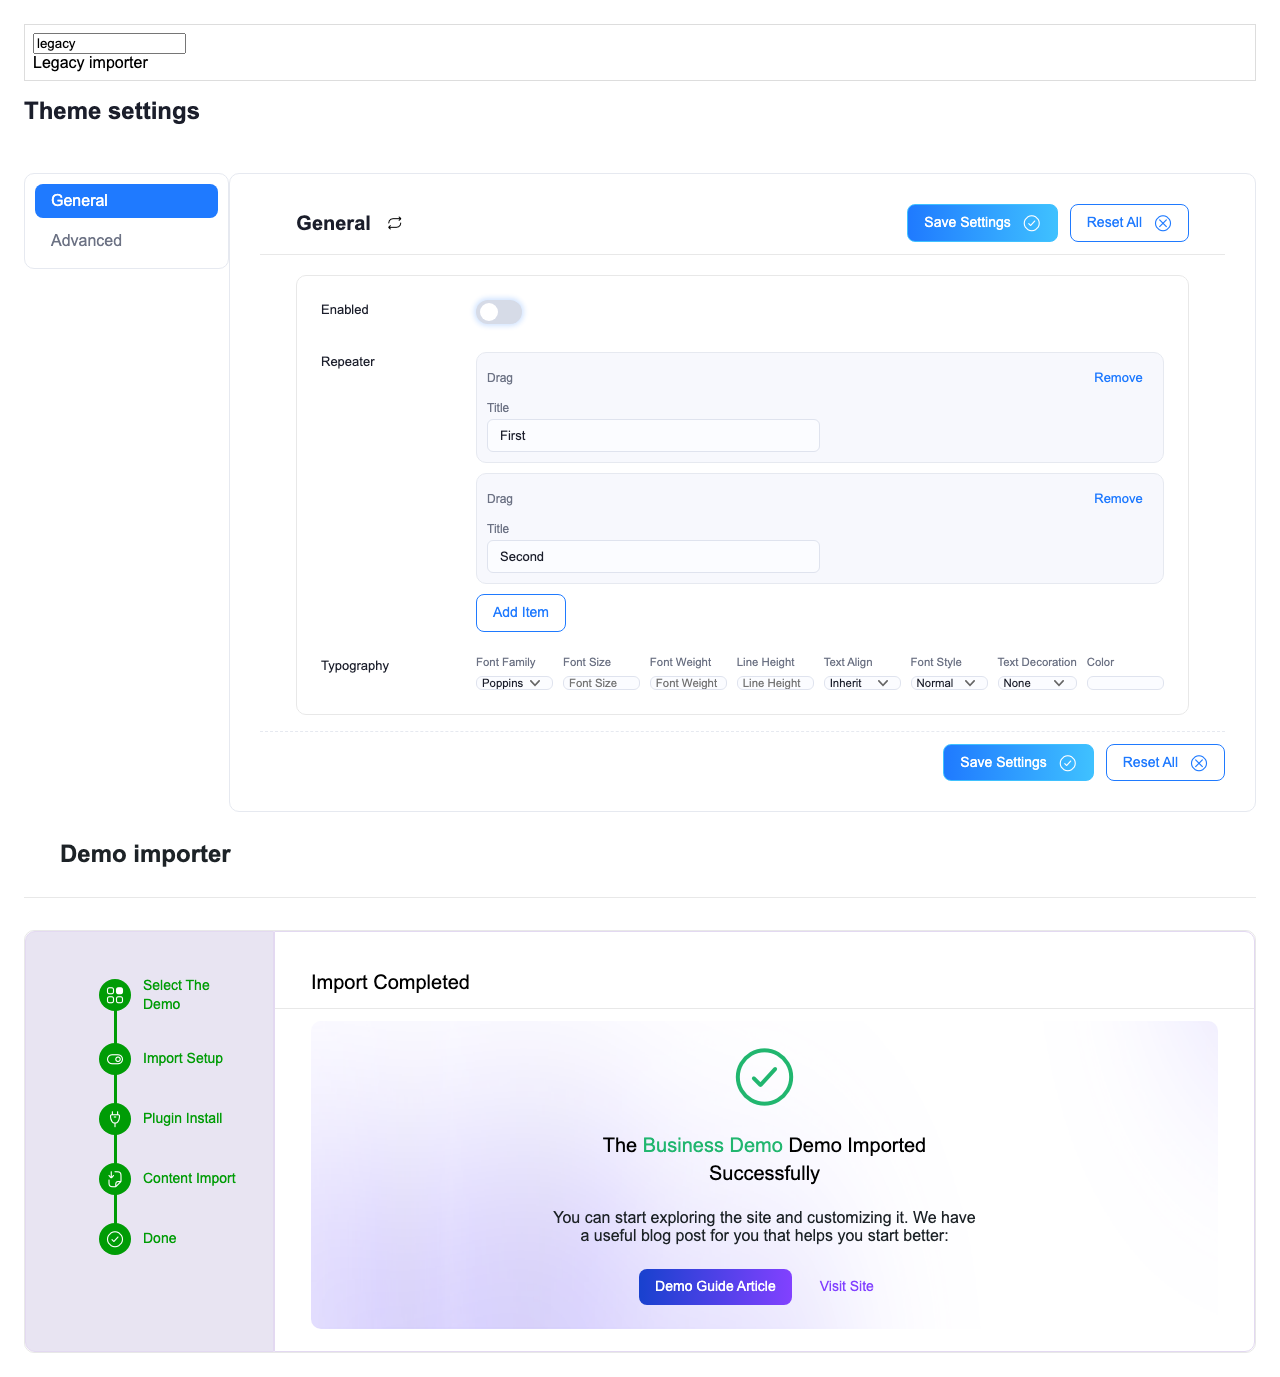
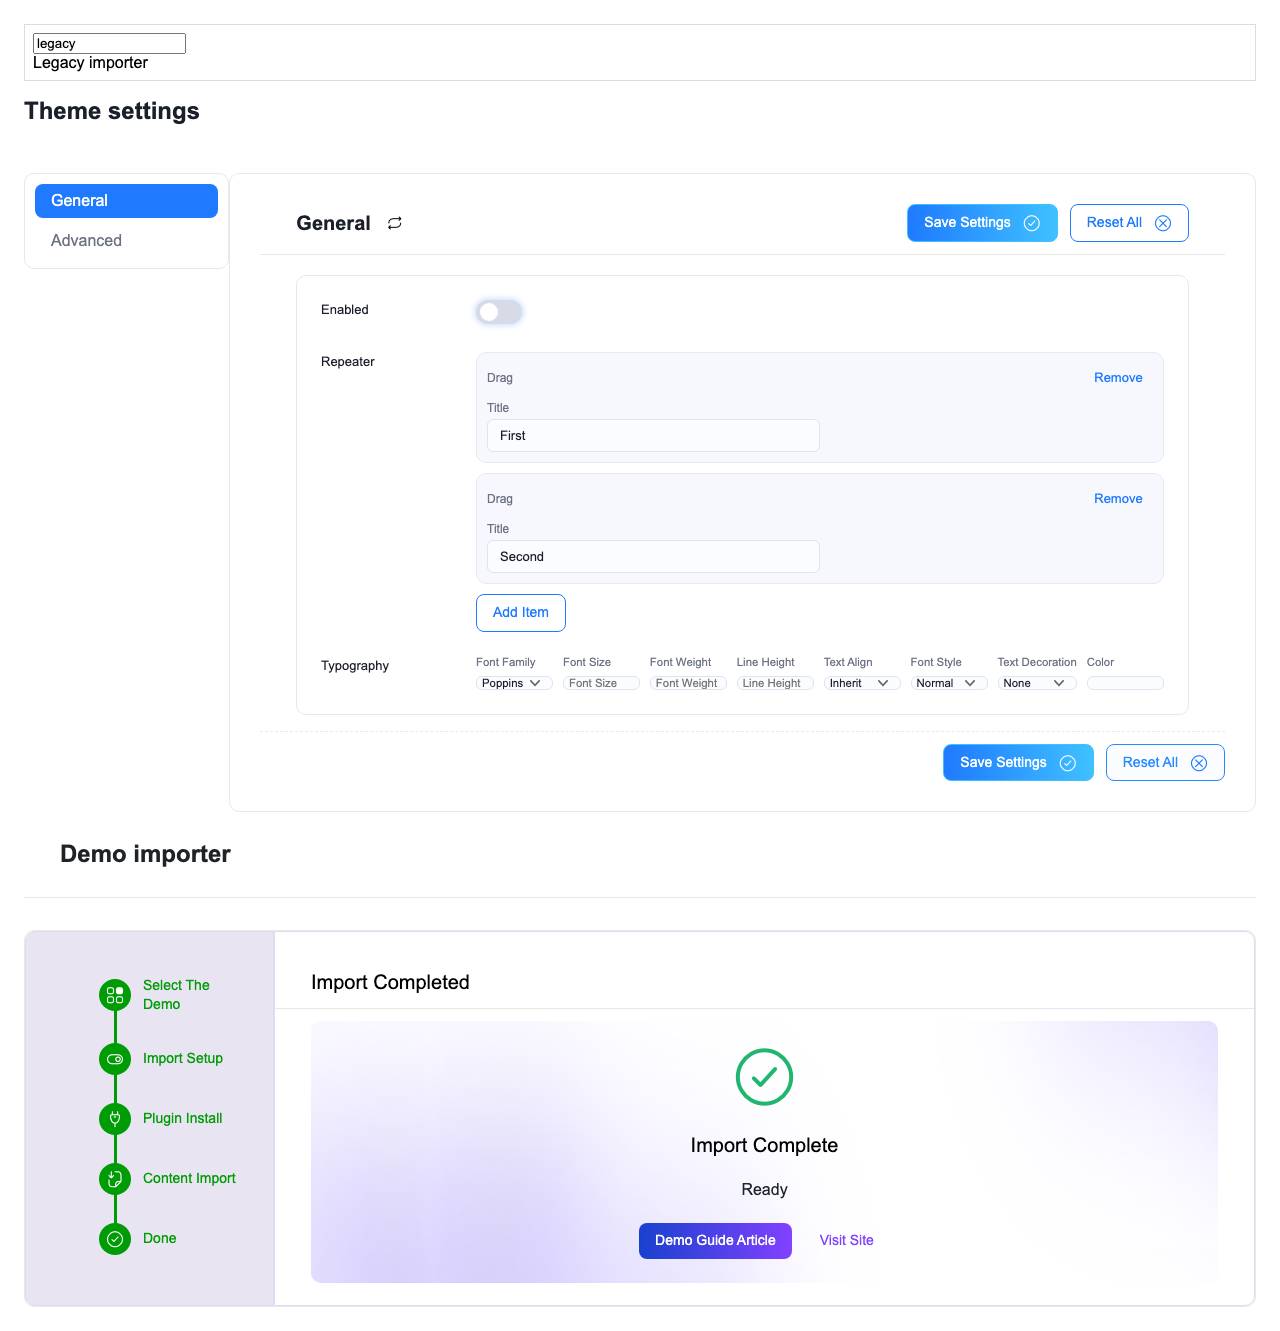
Fix conditional comparisons, keyboard sorting and importer completion

diff --git a/assets/js/settings-panel.js b/assets/js/settings-panel.js
@@ -453,11 +453,11 @@ export function create(options = {}) {
             const a = normalizeScalar(actual);
             const e = normalizeScalar(expected);
 
-            if (typeof a === 'boolean' || typeof e === 'boolean') {
-                return Boolean(a) === Boolean(e);
+            if (typeof a === 'boolean' && typeof e === 'boolean') {
+                return a === e;
             }
 
-            return String(a) === String(e);
+            return String(actual == null ? '' : actual) === String(expected == null ? '' : expected);
         }
 
         function compareValues(actual, operator, expected) {
@@ -1023,16 +1023,29 @@ export function create(options = {}) {
     const SortablesModule = {
         name: 'SortablesModule',
         init(context) {
-            if (!options.sortable) return;
             const lists = Utils.qsa('.wui-sp-sortable', context);
             if (context.matches && context.matches('.wui-sp-sortable')) lists.unshift(context);
             lists.forEach(list => {
                 if (list.dataset.wuiSortableReady) return;
                 list.dataset.wuiSortableReady = '1';
-                options.sortable(list, () => {
+                const changed = () => {
                     const target = list.querySelector('input') || list;
                     target.dispatchEvent(new Event('input', { bubbles: true }));
                     target.dispatchEvent(new Event('change', { bubbles: true }));
+                };
+                if (options.sortable) options.sortable(list, changed);
+                list.addEventListener('click', event => {
+                    const button = event.target.closest('.wui-sp-sortable-move');
+                    if (!button || button.closest('.wui-sp-sortable') !== list) return;
+                    event.preventDefault();
+                    const item = button.closest('li');
+                    const up = button.dataset.direction === 'up';
+                    const sibling = up ? item.previousElementSibling : item.nextElementSibling;
+                    if (!sibling) return;
+                    if (up) list.insertBefore(item, sibling);
+                    else list.insertBefore(sibling, item);
+                    button.focus();
+                    changed();
                 });
             });
         }

diff --git a/dist/js/settings-panel.js b/dist/js/settings-panel.js
@@ -363,10 +363,10 @@ var __wuiModule = (() => {
         }
         const a = normalizeScalar(actual);
         const e = normalizeScalar(expected);
-        if (typeof a === "boolean" || typeof e === "boolean") {
-          return Boolean(a) === Boolean(e);
+        if (typeof a === "boolean" && typeof e === "boolean") {
+          return a === e;
         }
-        return String(a) === String(e);
+        return String(actual == null ? "" : actual) === String(expected == null ? "" : expected);
       }
       function compareValues(actual, operator, expected) {
         let op = String(operator || "=").toLowerCase();
@@ -791,16 +791,29 @@ var __wuiModule = (() => {
     const SortablesModule = {
       name: "SortablesModule",
       init(context) {
-        if (!options.sortable) return;
         const lists = Utils.qsa(".wui-sp-sortable", context);
         if (context.matches && context.matches(".wui-sp-sortable")) lists.unshift(context);
         lists.forEach((list) => {
           if (list.dataset.wuiSortableReady) return;
           list.dataset.wuiSortableReady = "1";
-          options.sortable(list, () => {
+          const changed = () => {
             const target = list.querySelector("input") || list;
             target.dispatchEvent(new Event("input", { bubbles: true }));
             target.dispatchEvent(new Event("change", { bubbles: true }));
+          };
+          if (options.sortable) options.sortable(list, changed);
+          list.addEventListener("click", (event) => {
+            const button = event.target.closest(".wui-sp-sortable-move");
+            if (!button || button.closest(".wui-sp-sortable") !== list) return;
+            event.preventDefault();
+            const item = button.closest("li");
+            const up = button.dataset.direction === "up";
+            const sibling = up ? item.previousElementSibling : item.nextElementSibling;
+            if (!sibling) return;
+            if (up) list.insertBefore(item, sibling);
+            else list.insertBefore(sibling, item);
+            button.focus();
+            changed();
           });
         });
       }

diff --git a/assets/js/demo-import.js b/assets/js/demo-import.js
@@ -40,10 +40,15 @@ export function init(root, options = {}) {
         contentStageLabel: $('.js-wui-di-content-stage-label'),
         pluginContext: $('.js-wui-di-plugin-context'),
         contentContext: $('.js-wui-di-content-context'),
-        doneDemoName: $('.js-wui-di-done-demo-name'),
+        doneTitle: $('.js-wui-di-done-title'),
+        doneMessage: $('.js-wui-di-done-message'),
         visitSite: $('.js-wui-di-visit-site'),
         guideLink: $('.js-wui-di-guide-link')
     };
+
+    // These fallback fragments come from the host's trusted rendered template.
+    const doneTitleTemplate = dom.doneTitle.html();
+    const doneMessageTemplate = dom.doneMessage.html();
 
     function t(key) {
         return Object.prototype.hasOwnProperty.call(i18n, key) ? i18n[key] : '';
@@ -312,7 +317,8 @@ export function init(root, options = {}) {
         setStageLabel(dom.contentStageLabel, t('stage_waiting'), 'info');
         dom.pluginRestartButton.hide();
         dom.contentRestartButton.hide();
-        dom.doneDemoName.text('');
+        dom.doneTitle.html(doneTitleTemplate || '');
+        dom.doneMessage.html(doneMessageTemplate || '');
     }
 
     function showSetup(selected, demoName, demoImage, plugins, categories) {
@@ -522,7 +528,9 @@ export function init(root, options = {}) {
         setTimelineState('done', 'done');
         setStageLabel(dom.contentStageLabel, t('stage_completed'), 'success');
         appendLog(dom.contentLog, t('log_content_success'), 'success');
-        dom.doneDemoName.text(currentImport && currentImport.demoName ? currentImport.demoName + ' ' : '');
+        dom.doneTitle.find('.js-wui-di-done-demo-name').text(currentImport && currentImport.demoName ? currentImport.demoName + ' ' : '');
+        if (response && typeof response.title === 'string') dom.doneTitle.text(response.title);
+        if (response && typeof response.message === 'string') dom.doneMessage.text(response.message);
         resetFooterButtons();
         setActiveStep('done');
     }

diff --git a/dist/js/demo-import.js b/dist/js/demo-import.js
@@ -63,10 +63,13 @@ var __wuiModule = (() => {
       contentStageLabel: $(".js-wui-di-content-stage-label"),
       pluginContext: $(".js-wui-di-plugin-context"),
       contentContext: $(".js-wui-di-content-context"),
-      doneDemoName: $(".js-wui-di-done-demo-name"),
+      doneTitle: $(".js-wui-di-done-title"),
+      doneMessage: $(".js-wui-di-done-message"),
       visitSite: $(".js-wui-di-visit-site"),
       guideLink: $(".js-wui-di-guide-link")
     };
+    const doneTitleTemplate = dom.doneTitle.html();
+    const doneMessageTemplate = dom.doneMessage.html();
     function t(key) {
       return Object.prototype.hasOwnProperty.call(i18n, key) ? i18n[key] : "";
     }
@@ -269,7 +272,8 @@ var __wuiModule = (() => {
       setStageLabel(dom.contentStageLabel, t("stage_waiting"), "info");
       dom.pluginRestartButton.hide();
       dom.contentRestartButton.hide();
-      dom.doneDemoName.text("");
+      dom.doneTitle.html(doneTitleTemplate || "");
+      dom.doneMessage.html(doneMessageTemplate || "");
     }
     function showSetup(selected, demoName, demoImage, plugins, categories) {
       currentImport = {
@@ -451,7 +455,9 @@ var __wuiModule = (() => {
       setTimelineState("done", "done");
       setStageLabel(dom.contentStageLabel, t("stage_completed"), "success");
       appendLog(dom.contentLog, t("log_content_success"), "success");
-      dom.doneDemoName.text(currentImport && currentImport.demoName ? currentImport.demoName + " " : "");
+      dom.doneTitle.find(".js-wui-di-done-demo-name").text(currentImport && currentImport.demoName ? currentImport.demoName + " " : "");
+      if (response && typeof response.title === "string") dom.doneTitle.text(response.title);
+      if (response && typeof response.message === "string") dom.doneMessage.text(response.message);
       resetFooterButtons();
       setActiveStep("done");
     }

diff --git a/assets/wordpress/js/demo-import.js b/assets/wordpress/js/demo-import.js
@@ -8,7 +8,19 @@
         request(config) {
             return $.ajax(Object.assign({}, config, {
                 data: Object.assign({}, config.data, { action: 'webilia_wp_demo_' + config.data.action })
-            }));
+            })).then(response => {
+                if (!response || typeof response.message !== 'string') return response;
+                // WP's legacy completion fields contain escaped text and paragraph markup.
+                // Template contents are inert; pass only their text to the shared renderer.
+                const plainText = value => {
+                    const template = document.createElement('template');
+                    template.innerHTML = value;
+                    return template.content.textContent;
+                };
+                const prepared = Object.assign({}, response, { message: plainText(response.message) });
+                if (typeof response.title === 'string') prepared.title = plainText(response.title);
+                return prepared;
+            });
         }
     });
 })(jQuery);

diff --git a/dist/wordpress/js/demo-import.js b/dist/wordpress/js/demo-import.js
@@ -10,7 +10,17 @@
       request(config) {
         return $.ajax(Object.assign({}, config, {
           data: Object.assign({}, config.data, { action: "webilia_wp_demo_" + config.data.action })
-        }));
+        })).then((response) => {
+          if (!response || typeof response.message !== "string") return response;
+          const plainText = (value) => {
+            const template = document.createElement("template");
+            template.innerHTML = value;
+            return template.content.textContent;
+          };
+          const prepared = Object.assign({}, response, { message: plainText(response.message) });
+          if (typeof response.title === "string") prepared.title = plainText(response.title);
+          return prepared;
+        });
       }
     });
   })(jQuery);

diff --git a/dist/wordpress/js/settings-panel.js b/dist/wordpress/js/settings-panel.js
@@ -52,7 +52,10 @@
           if (existing) label = existing;
           text.empty();
           text.append('<i class="fa-solid fa-paintbrush wui-sp-color-icon" aria-hidden="true"></i>');
-          text.append('<span class="screen-reader-text">' + label + "</span>");
+          const labelNode = document.createElement("span");
+          labelNode.className = "screen-reader-text";
+          labelNode.textContent = label;
+          text.append(labelNode);
         }
         function resolveColorOriginValue($input) {
           const origin = $input.attr("data-wui-sp-color-origin") || $input.closest(".wui-sp-field").attr("data-wui-sp-color-origin");

diff --git a/assets/scss/components/_settings-panel.scss b/assets/scss/components/_settings-panel.scss
@@ -2287,4 +2287,19 @@ button[type="button"].wui-sp-text-button:disabled
     outline: 2px solid var(--webilia-panel-accent, #2271b1);
     outline-offset: 2px;
   }
+  .wui-sp-radio-toggle input[type="radio"]:focus-visible + label,
+  .wui-sp-image-option:has(input[type="radio"]:focus-visible) {
+    outline: 2px solid var(--webilia-panel-accent, #2271b1);
+    outline-offset: 2px;
+  }
+  .wui-sp-sortable li {
+    display: flex;
+    align-items: center;
+    justify-content: space-between;
+    gap: 8px;
+  }
+  .wui-sp-sortable-actions {
+    display: inline-flex;
+    gap: 4px;
+  }
 }

diff --git a/dist/css/settings-panel.css b/dist/css/settings-panel.css
@@ -2044,3 +2044,18 @@
   outline: 2px solid var(--webilia-panel-accent, #2271b1);
   outline-offset: 2px;
 }
+.wui.wui-sp-root .wui-sp-radio-toggle input[type=radio]:focus-visible + label,
+.wui.wui-sp-root .wui-sp-image-option:has(input[type=radio]:focus-visible) {
+  outline: 2px solid var(--webilia-panel-accent, #2271b1);
+  outline-offset: 2px;
+}
+.wui.wui-sp-root .wui-sp-sortable li {
+  display: flex;
+  align-items: center;
+  justify-content: space-between;
+  gap: 8px;
+}
+.wui.wui-sp-root .wui-sp-sortable-actions {
+  display: inline-flex;
+  gap: 4px;
+}

diff --git a/assets/wordpress/js/settings-panel.js b/assets/wordpress/js/settings-panel.js
@@ -56,7 +56,10 @@
 
                 text.empty();
                 text.append('<i class="fa-solid fa-paintbrush wui-sp-color-icon" aria-hidden="true"></i>');
-                text.append('<span class="screen-reader-text">' + label + '</span>');
+                const labelNode = document.createElement('span');
+                labelNode.className = 'screen-reader-text';
+                labelNode.textContent = label;
+                text.append(labelNode);
             }
 
             function resolveColorOriginValue($input) {

diff --git a/src/SettingsPanel/Fields.php b/src/SettingsPanel/Fields.php
@@ -1146,7 +1146,13 @@ class Fields
         foreach ($value as $key)
         {
             if (!isset($args['options'][$key])) continue;
-            $items .= '<li data-key="' . P::escape($key) . '"><input type="hidden" name="' . P::escape($args['name']) . '[]" value="' . P::escape($key) . '"' . $customizer_link_attr . '>' . P::escape($args['options'][$key]) . '</li>';
+            $label = static::label_text($args['options'][$key]);
+            $controls = '';
+            foreach (['up' => ['Move %s up', '↑'], 'down' => ['Move %s down', '↓']] as $direction => $control)
+            {
+                $controls .= '<button type="button" class="wui-button wui-button--tertiary wui-sp-text-button wui-sp-sortable-move" data-direction="' . $direction . '" aria-label="' . P::escape(sprintf(static::translate($control[0]), $label)) . '">' . $control[1] . '</button>';
+            }
+            $items .= '<li data-key="' . P::escape($key) . '"><input type="hidden" name="' . P::escape($args['name']) . '[]" value="' . P::escape($key) . '"' . $customizer_link_attr . '><span class="wui-sp-sortable-label">' . P::escape($label) . '</span><span class="wui-sp-sortable-actions">' . $controls . '</span></li>';
         }
 
         $content = '<ul class="wui-sp-sortable wui-sp-field-type-sortable" id="' . P::escape($args['id'] ?? '') . '">' . $items . '</ul>';

diff --git a/docs/theme-tools.md b/docs/theme-tools.md
@@ -108,6 +108,10 @@ registers its native color-picker module; typography does not reference a UI col
 `config.panel_intro` is escaped text; use the explicit trusted `panel_intro_html` slot for markup.
 The WP adapter adds isolated endpoint action names. Do not mutate the supplied request payload,
 because a content continuation can reuse it. Existing response status names are preserved.
+Final responses may supply plain-text `title` and `message` for the completion panel; omitted
+fields retain the template text. WP's browser adapter converts its legacy HTML completion fields
+to text without changing the backend response shape. Sortable fields include named up/down
+buttons usable with Tab and Enter/Space; an optional host adapter adds pointer drag sorting.
 Modules initialize only on explicit calls, once per page/root, and do not attach to legacy selectors.
 
 Selectors use `wui-sp-*` for settings and `wui-di-*` for importer presentation. Settings
